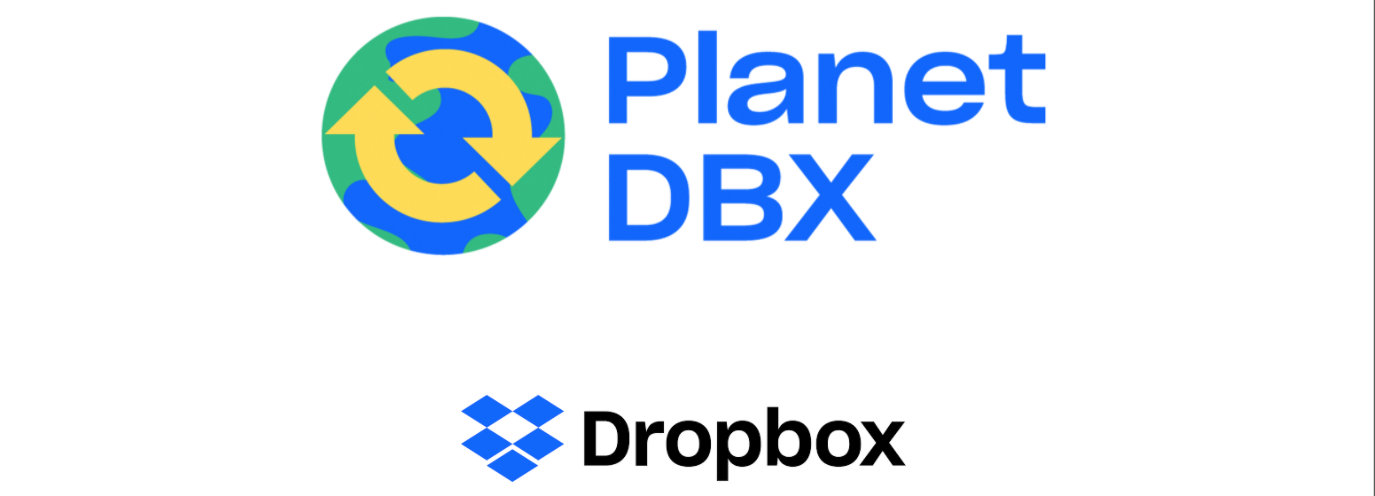
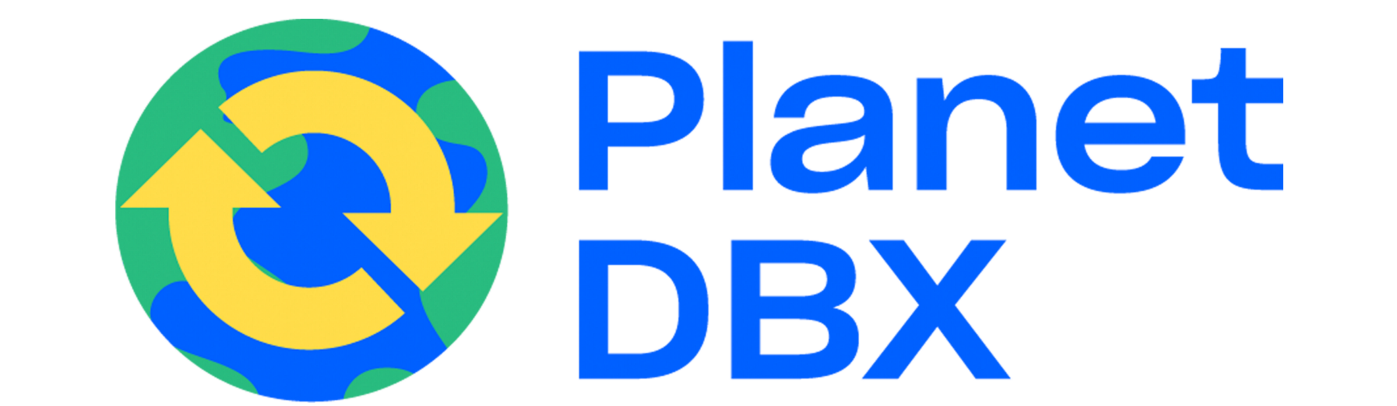
better design

diff --git a/_layouts/default.html b/_layouts/default.html
@@ -11,6 +11,12 @@
         gtag('config', '{{ site.google_analytics }}');
       </script>
     {% endif %}
+    <script type="text/javascript" async
+      src="https://cdnjs.cloudflare.com/ajax/libs/mathjax/2.7.7/MathJax.js?config=TeX-MML-AM_CHTML">
+    </script>
+    <script type="text/x-mathjax-config">
+      MathJax.Hub.Config({tex2jax: {inlineMath: [['$','$'], ['\\(','\\)']]}});
+    </script>
     <meta charset="UTF-8">
 
 {% seo %}
@@ -19,22 +25,36 @@
     <meta name="apple-mobile-web-app-status-bar-style" content="black-translucent">
     <link rel="stylesheet" href="{{ '/assets/css/style.css?v=' | append: site.github.build_revision | relative_url }}">
     <link rel="icon" type="image/png" href="{{ site.baseurl }}/assets/img/favicon.png"/>
+    <link rel="stylesheet" href="https://stackpath.bootstrapcdn.com/bootstrap/4.3.1/css/bootstrap.min.css" integrity="sha384-ggOyR0iXCbMQv3Xipma34MD+dH/1fQ784/j6cY/iJTQUOhcWr7x9JvoRxT2MZw1T" crossorigin="anonymous">
   </head>
   <body>
-    <header class="page-header" role="banner">
-      <div class="header-container">
-        <img src="{{ site.baseurl }}/assets/img/planetdbx.png">
-        <h1 class="project-name">Reducing Carbon Emissions at Dropbox</h1>
-        <h2 class="project-tagline">{{ page.description | default: site.description | default: site.github.project_tagline }}</h2>
+    <!-- <header role="banner">
+      
+    </header> -->
+    <div class="header-container">
+      <div class="header-content">
+        <img src="{{ site.baseurl }}/assets/img/dbx.png" style="max-width: 10%">
+        <img src="{{ site.baseurl }}/assets/img/planetdbx.png" style="max-width: 50%">
+        <div class="header-text">
+          Reducing Carbon Emissions at Dropbox
+        </div>
         {% if site.github.is_project_page %}
-          <a href="http://www.michaelpiseno.com/" target="_blank" class="btn">Michael Piseno</a>
+        <div class="header-btn" onclick="window.open('http://www.michaelpiseno.com/','mywindow');" style="cursor: pointer;">
+          <a href="http://www.michaelpiseno.com/" target="_blank" style="color: #0D2F81">Michael Piseno</a>
+        </div>
+        {% endif %}
+      </div>
+        <!-- <img src="{{ site.baseurl }}/assets/img/planetdbx.png"> -->
+        <!-- <h1 class="project-name">Reducing Carbon Emissions at Dropbox</h1> -->
+        <!-- <h2 class="project-tagline">{{ page.description | default: site.description | default: site.github.project_tagline }}</h2> -->
+        <!-- {% if site.github.is_project_page %}
+          <a href="http://www.michaelpiseno.com/" target="_blank" class="btn" style="color:white">Michael Piseno</a>
         {% endif %}
         {% if site.show_downloads %}
           <a href="{{ site.github.zip_url }}" class="btn">Download .zip</a>
           <a href="{{ site.github.tar_url }}" class="btn">Download .tar.gz</a>
-        {% endif %}
-      </div>
-    </header>
+        {% endif %} -->
+    </div>
 
     <main id="content" class="main-content" role="main">
       {{ content }}

diff --git a/assets/css/style.scss b/assets/css/style.scss
@@ -4,7 +4,56 @@
 @import "{{ site.theme }}";
 
 .page-header {
-    background: #1221DF;
+    background-color: white;
+    background-repeat:no-repeat;
+    background-position: center center;
+}
+
+.header-container {
+    display: flex;
+    justify-content: center;
+    align-items: center;
+    height: 100vh;
+    width: 100%;
+
+    background-image: url("{{ site.baseurl }}/assets/img/header-background.png");
+    background-repeat:no-repeat;
+    background-position: center center;
+    box-shadow: 4px 4px 15px rgba(0, 0, 0, 0.25);
+}
+
+.header-content {
+    position: absolute;
+    display: flex;
+    flex-direction: column;
+    justify-content: space-evenly;
+    align-items: center;
+    height: 70%;
+    width: 80%;
+
+    background-color: white;
+
+    border-radius: 5px;
+    padding: 15px;
+    box-shadow: 4px 4px 15px rgba(0, 0, 0, 0.25);
+}
+
+.header-text {
+    font-size: 2.25rem;
+    font-weight: 600;
+
+    color: #1d57e3ff;
+}
+
+.header-btn {
+    background-color: #FFAFA2;
+
+    color: #0D2F81;
+
+    font-size: 1.0rem;
+    padding: 8px 25px;
+    border-radius: 4px;
+    box-shadow: 1px 2px;
 }
 
 header img {

diff --git a/index.md b/index.md
@@ -9,7 +9,7 @@ This summer I had the humbling opportunity to intern at Dropbox as a software en
 </p>
 
 <p align="justify">
-Each summer, Dropbox hosts <a href="https://blog.dropbox.com/topics/inside-dbx/be-a-force-for-change--hack-week-2019" target="_blank">Hack Week</a>, an opportunity for Dropboxers to put aside their normal work for an entire week and hack together any project their heart desires. For my Hack Week project, I put Blink to the side and took on the challenge of changing how data is compressed from the Dropbox desktop client when users upload files to the server. Doing so has implications for the amount of CPU the client uses during an upload and involved learning Rust, a systems programming language quite different from my pythonic comfort zone. With the massive amounts of data Dropbox users upload on a daily basis, the savings in CPU power from smarter compression produces a non-trivial savings in energy, and consequently carbon emissions.
+Each summer, Dropbox hosts <a href="https://blog.dropbox.com/topics/inside-dbx/be-a-force-for-change--hack-week-2019" target="_blank">Hack Week</a>, an opportunity for Dropboxers to put aside their normal work for an entire week and hack together any project their hearts desire. For my Hack Week project, I put Blink to the side and took on the challenge of changing how data is compressed from the Dropbox desktop client when users upload files to the server. Doing so has implications for the amount of CPU the client uses during an upload and involved learning Rust, a systems programming language quite different from my pythonic comfort zone. With the massive amounts of data Dropbox users upload on a daily basis, the savings in CPU power from smarter compression produces a non-trivial savings in energy, and consequently carbon emissions.
 </p>
 
 
@@ -33,13 +33,51 @@ Unfortunately, some data are incompressible, and so any compression and subsquen
 ## Smarter Data Compression
 
 <p align="justify">
-Placeholder
+When a user uploads data to Dropbox, the compression algorithm used takes a parameter called compression quality, which we'll call $q$. $q$ is a positive integer that can takes values between 0 and 5 inclusive, where 0 performs the least amount of compression (but not no compression) and 5 performs the highest amount. Ideally, if we detect incompressible data being uploaded, we will tell the algorithm to bypass compression completely, otherwise we want to set $q$ to something reasonable based on how compressible we think the data is. To predict compressibility, we use a common measurement called shannon entropy, $H$, which is a measurement of how much information is in a byte stream (or string). The formula for $H$ is
+
+$$H(s) = -\sum_{s_{i}} p_{i}\log_{2}(p_{i})$$
+
+where $s$ is the input string, $s_{i}$ is character $i$ of the string, and $p_{i}$ is the probability of character $i$ appearing in the string.
 </p>
 
-## Approach
+<p align="justify">
+For example, given the string $s_{1}=$"Hiiii", the shannon entropy would be
+
+$$H(s_{1}) = -\frac{1}{5}\log_{2}(\frac{1}{5}) - 4 * \frac{4}{5}\log_{2}(\frac{1}{5}) = 1.49$$
+
+For $s_{2}=$"hello", the shannon entropy would be
+
+$$H(s_{2}) = -\frac{1}{5}\log_{2}(\frac{1}{5}) - \frac{1}{5}\log_{2}(\frac{1}{5}) - 2 * \frac{2}{5}\log_{2}(\frac{2}{5}) - \frac{1}{5}\log_{2}(\frac{1}{5}) = 1.90$$
+
+So $s_{2}$ has higher entropy than $s_{1}$, meaning it has more information. This make sense, because there are more unique characters; it tells us more about the alphabet. It is more complex.
+</p>
 
 <p align="justify">
-Placeholder
+Similar logic allows us to predict that lower entropy data are likely to be more compressible. For example, if my (primitive) compression algorithm is a character followed by the number of times it appears in a row, $s_{1}$ when compressed becomes "1H4i", whereas $s_{2}$ becomes "1H1e2l1o". With this simple compression rule, $s_{1}$ is more compressible. Without getting into the details of more advanced compression algorithms, it suffices to say a similar trend holds.
+</p>
+
+<p align="justify">
+With that in mind, we define a metric called the entropy ratio $R$ which is a function of the input string defined as
+
+$$R(s) = \frac{H(s)}{log_{b}(|s|)}$$
+
+which simply normalizes the entropy by the logarithm of the length of $s$. $b$ is chosen so that the maximum entropy results in a $R$ value of 1. This will allow us to use the entropy ratio as an estimator for the compression ratio of data. Based on the below chart of common user uploads and their known compression ratios, we define a simple heuristic to choose the $q$ value used for compresison based on the entropy ratio of the data to be uploaded.
+</p>
+
+<center>
+  <div class="col-lg-8 col-md-8 col-sm-12 col-xs-12">
+    <img class="rounded mx-auto d-block" src="{{ site.baseurl }}/assets/img/compression-ratio.png">
+  </div>
+</center>
+
+<p align="justify">
+When a user uploads data, we simply calculate $R$ on that data and use a larger value for $q$ if $R$ is low (say, below 0.5), while using a value that indicates no compression if $R$ is too high (say, above 0.8). This rule gives us a simple but promising heuristic for detecting incompressible data.
+</p>
+
+## Carbon Reduction
+
+<p align="justify">
+So how does this translate into carbon reduction? Well we have to quantify how much electricity we are saving in terms of the amount of compute power we are saving, which will involve some assumptions. Based on reports, users upload approximated 500,000 GB of incompressible data each day. [1] estimates that each GB of data we compress and decompress takes 2000 J of energy. If we can find out the distribution of Dropbox users (per country) and the correspodning carbon emmisions per KwH of energy on average for each country, we can directly quantify the carbon reduction of not compressing incompressible data.
 </p>
 
 ## Results
@@ -47,4 +85,14 @@ Placeholder
 <p align="justify">
 Placeholder
 </p>
+
+## Future Work
+
+<p align="justify">
+Placeholder
+</p>
+
+## References
+
+[1]
 
